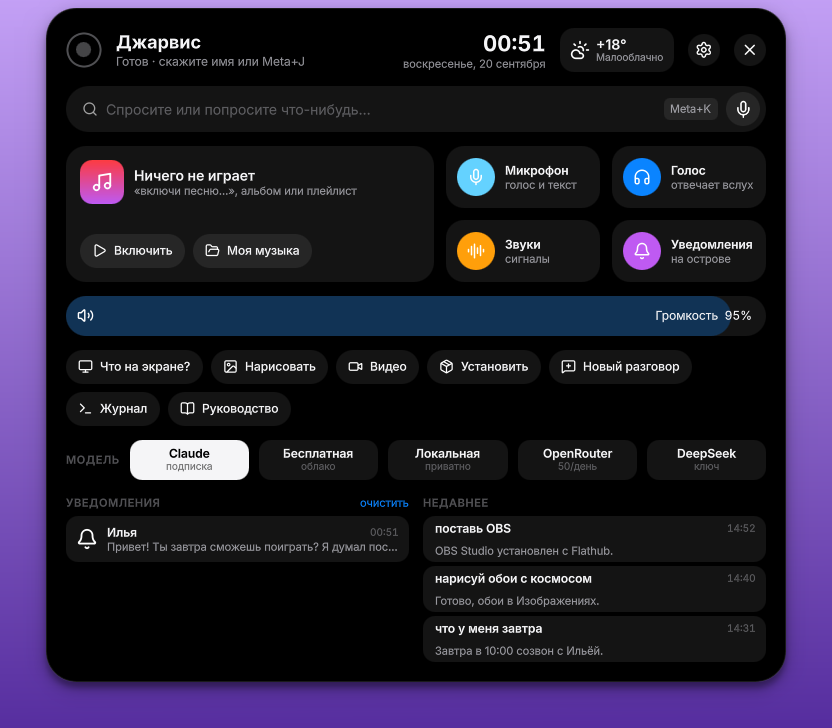
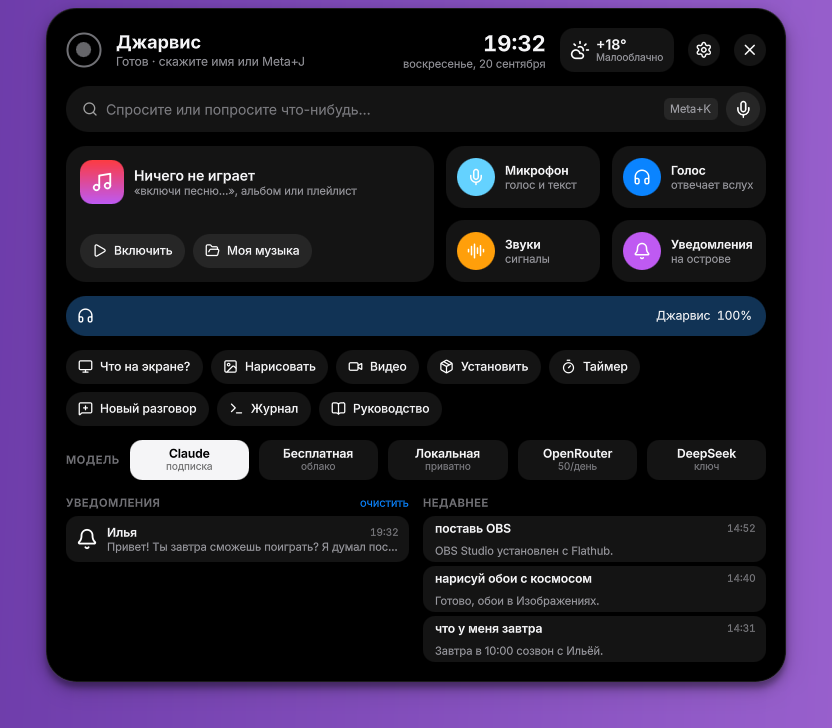
The volume in the menu is the assistant's own, and the player has one too
The slider in the island's menu moved the system volume: turning down JustDay turned down
every other app on the machine. It is now JustDay's own level — its voice and its signals,
set on our PipeWire stream (pw-play --volume), 0–100, kept in audio.volume. The system
volume stays where Plasma left it.

While music plays a second slider appears under it, in the colour of the cover, for the
player itself; the same knob now sits in the player, under the transport controls, with a
thinner track so it never reads as a second progress bar.

Both sliders apply at once and write the config a second after the dragging stops, so a
drag no longer means a file write per pixel. Also: `justday voice volume 70`, a row in
Settings → Голос и звук, and the two screenshots redone.

Claude-Session: https://claude.ai/code/session_01NE73Aw9EV23dkuFKRvQzTm

diff --git a/island/shell.qml b/island/shell.qml
@@ -11,7 +11,6 @@ import Quickshell.Io
 import Quickshell.Wayland
 import Quickshell.Widgets
 import Quickshell.Services.Mpris
-import Quickshell.Services.Pipewire
 import QtMultimedia
 
 ShellRoot {
@@ -784,12 +783,14 @@ ShellRoot {
         property real value: 0          // 0…1
         property color tint: JD.text1
         property real dragValue: -1
+        property bool live: false       // report every step (volume), not only the release (seeking)
+        property int thickness: 5       // the volume track is thinner: it is not the progress of anything
         signal seek(real frac)
         implicitHeight: 16
         Rectangle {
             anchors.verticalCenter: parent.verticalCenter
             width: parent.width
-            height: sbHover.hovered || sb.dragValue >= 0 ? 7 : 5
+            height: sbHover.hovered || sb.dragValue >= 0 ? sb.thickness + 2 : sb.thickness
             radius: height / 2
             color: Qt.rgba(1, 1, 1, 0.16)
             Behavior on height { NumberAnimation { duration: 120 } }
@@ -805,7 +806,7 @@ ShellRoot {
             anchors.fill: parent
             function at(x) { return Math.max(0, Math.min(1, x / width)) }
             onPressed: m => sb.dragValue = at(m.x)
-            onPositionChanged: m => { if (pressed) sb.dragValue = at(m.x) }
+            onPositionChanged: m => { if (pressed) { sb.dragValue = at(m.x); if (sb.live) sb.seek(sb.dragValue) } }
             onReleased: { sb.seek(sb.dragValue); sb.dragValue = -1 }
         }
     }
@@ -872,6 +873,7 @@ ShellRoot {
         readonly property color tint: JD.artTint(p.color)
         property real now: Date.now()
         property bool queueOpen: false
+        property int volumeWas: 0      // where the mute button came from
         Timer { interval: 250; repeat: true; running: pl.visible && !pl.p.paused; onTriggered: pl.now = Date.now() }
         readonly property real pos: { pl.now; return JD.playerPos(Date.now()) }
         readonly property var upcoming: (p.queue || []).filter(q => q.i >= (p.index || 0))
@@ -953,6 +955,34 @@ ShellRoot {
                     }
                 }
                 Item { Layout.fillWidth: true }
+            }
+            // how loud the music is — mpv's own volume, not the system's
+            RowLayout {
+                Layout.topMargin: 2
+                Layout.leftMargin: 4
+                Layout.rightMargin: 4
+                spacing: 10
+                Icon {
+                    name: (pl.p.volume || 0) === 0 ? "audio-volume-muted" : "audio-volume-high"
+                    implicitSize: 15; tint: JD.text3
+                    TapHandler { onTapped: { const was = pl.p.volume || 0
+                                             JD.media("volume", was > 0 ? 0 : (pl.volumeWas || 70))
+                                             pl.optimistic({ volume: was > 0 ? 0 : (pl.volumeWas || 70) }); pl.volumeWas = was } }
+                    HoverHandler { cursorShape: Qt.PointingHandCursor }
+                }
+                SeekBar {
+                    Layout.fillWidth: true
+                    live: true
+                    thickness: 3
+                    tint: Qt.rgba(pl.tint.r, pl.tint.g, pl.tint.b, 0.75)
+                    value: (pl.p.volume || 0) / 100
+                    onSeek: frac => { const v = Math.round(frac * 100); JD.media("volume", v); pl.optimistic({ volume: v }) }
+                }
+                Label2 {
+                    text: Math.round(pl.p.volume || 0) + "%"
+                    color: JD.text3; font.pixelSize: 11; font.features: { "tnum": 1 }
+                    Layout.minimumWidth: 34; horizontalAlignment: Text.AlignRight
+                }
             }
             // queue · folder · stop
             RowLayout {
@@ -1850,6 +1880,7 @@ ShellRoot {
         id: ps
         property real value: 0
         property bool muted: false
+        property color tint: JD.accentBlue
         property string icon: "audio-volume-high"
         property string label: ""
         property real dragValue: -1
@@ -1864,7 +1895,7 @@ ShellRoot {
             width: Math.max(parent.height, parent.width * Math.min(1, ps.shown))
             height: parent.height
             radius: parent.radius
-            color: Qt.rgba(JD.accentBlue.r, JD.accentBlue.g, JD.accentBlue.b, psHover.hovered || ps.dragValue >= 0 ? 0.40 : 0.28)
+            color: Qt.rgba(ps.tint.r, ps.tint.g, ps.tint.b, psHover.hovered || ps.dragValue >= 0 ? 0.40 : 0.28)
             Behavior on width { enabled: ps.dragValue < 0; NumberAnimation { duration: 140 } }
         }
         MouseArea {
@@ -1903,9 +1934,9 @@ ShellRoot {
     component ExpandedView: View {
         id: ev
         property string pendingProvider: ""
+        property int voiceWas: 0   // the level the mute button came from, for the way back
+        property int musicWas: 0
         readonly property var player: Mpris.players.values.length ? Mpris.players.values.find(p => p.isPlaying) || Mpris.players.values[0] : null
-        readonly property var sink: Pipewire.defaultAudioSink
-        PwObjectTracker { objects: ev.sink ? [ev.sink] : [] }
         implicitWidth: 740
         implicitHeight: Math.min(col.implicitHeight + 40, 800)
         SystemClock { id: evClock; precision: SystemClock.Minutes }
@@ -2126,15 +2157,30 @@ ShellRoot {
                 }
             }
 
-            // ── system volume (PipeWire)
+            // ── how loud the assistant is. Not the system volume: that one belongs to Plasma, and moving it
+            //    from here would also turn down every other app on the machine.
             PillSlider {
-                visible: !!ev.sink && !!ev.sink.audio
                 Layout.fillWidth: true
-                value: ev.sink && ev.sink.audio ? ev.sink.audio.volume : 0
-                muted: ev.sink && ev.sink.audio ? ev.sink.audio.muted : false
-                label: JD.tr("Громкость")
-                onMoved: v => { if (ev.sink && ev.sink.audio) { ev.sink.audio.volume = v; if (v > 0) ev.sink.audio.muted = false } }
-                onMuteToggled: if (ev.sink && ev.sink.audio) ev.sink.audio.muted = !ev.sink.audio.muted
+                value: JD.volume / 100
+                muted: JD.volume === 0
+                icon: "audio-speakers"
+                label: JD.assistantName
+                onMoved: v => JD.setVolume(v * 100)
+                onMuteToggled: { const was = JD.volume; JD.setVolume(was > 0 ? 0 : (ev.voiceWas || 100)); ev.voiceWas = was }
+            }
+
+            // ── the music, while there is music: the same knob as in the player
+            PillSlider {
+                visible: JD.musicOn
+                Layout.fillWidth: true
+                value: (JD.player && JD.player.volume !== undefined ? JD.player.volume : 70) / 100
+                muted: !!JD.player && JD.player.volume === 0
+                icon: "audio-x-generic"
+                tint: JD.artTint(JD.player ? JD.player.color : "")
+                label: JD.tr("Музыка")
+                onMoved: v => JD.media("volume", Math.round(v * 100))
+                onMuteToggled: { const was = JD.player ? JD.player.volume : 0
+                                 JD.media("volume", was > 0 ? 0 : (ev.musicWas || 70)); ev.musicWas = was }
             }
 
             // ── one-tap actions

diff --git a/island/JD.qml b/island/JD.qml
@@ -73,6 +73,13 @@ Singleton {
     readonly property var hotkeys: settings.hotkeys || ({})
     readonly property bool micOn: settings.microphone !== false
     readonly property bool voiceOn: settings.voice !== false
+    // JustDay's own loudness (voice and signals), 0–100. The system volume belongs to the system.
+    readonly property int volume: settings.volume === undefined ? 100 : settings.volume
+    function setVolume(v) {
+        v = Math.max(0, Math.min(100, Math.round(v)))
+        settings = Object.assign({}, settings, { volume: v })   // the slider follows the finger, not the socket
+        send({ cmd: "volume", value: v })
+    }
     function openCompose(text, context) {
         composeText = text || ""
         composeContext = context || ({})

diff --git a/island/SettingsView.qml b/island/SettingsView.qml
@@ -722,6 +722,11 @@ Item {
                     }
                 }
                 Row {
+                    title: JD.tr("Громкость голоса")
+                    subtitle: JD.tr("Насколько громко говорит сам ассистент; системную громкость это не трогает")
+                    SSlider { key: "audio.volume"; from: 0; to: 100; step: 5; decimals: 0; unit: "%" }
+                }
+                Row {
                     title: JD.tr("Скорость речи")
                     subtitle: JD.tr("Насколько быстро ассистент говорит; 1,0 — как модель произносит сама")
                     Segmented {

diff --git a/src/justday/daemon.py b/src/justday/daemon.py
@@ -174,6 +174,7 @@ def settings_snapshot(cfg: dict) -> dict:
             "wakeword": cfg["wakeword"]["enabled"], "mail": bool(m["address"]), "mail_announce": m["announce"],
             "accessibility": cfg["desktop"]["accessibility"], "island": cfg["island"],
             "microphone": cfg["audio"].get("microphone", True), "voice": cfg["tts"]["engine"] != "none",
+            "volume": int(cfg["audio"].get("volume", 100)),
             "tts_engine": cfg["tts"]["engine"], "tts_previous": cfg["tts"].get("previous_engine", ""),
             "hotkeys": _hotkeys(), "media": cfg["media"]}
 
@@ -254,7 +255,8 @@ class Daemon:
         self.cfg = config.load()
         a = self.cfg["audio"]
         self.mic = audio.Microphone(a["input"])
-        self.player = audio.Player(a["output"])
+        self.player = audio.Player(a["output"], int(a.get("volume", 100)))
+        self._saves: dict[tuple[str, str], asyncio.TimerHandle] = {}  # sliders: write the config once, not per pixel
         self.recorder = audio.UtteranceRecorder(self.mic, a["silence_seconds"], a["no_speech_timeout_seconds"],
                                                 a["max_utterance_seconds"])
         self.stt = STT(self.cfg["stt"])
@@ -746,6 +748,7 @@ class Daemon:
                 self.mic.start()
         if a["output"] != old["audio"]["output"]:
             self.player.sink = audio.find_node(a["output"], "sinks") if a["output"] else None
+        self.player.volume = int(a.get("volume", 100))
         if new["media"]["volume"] != old["media"]["volume"]:
             asyncio.create_task(self.music.set_volume(int(new["media"]["volume"])))
         self.brain.cfg["user"] = new["user"]
@@ -1414,6 +1417,22 @@ class Daemon:
         events.emit("media_video", title=e["title"], where=where)
         return {"ok": True, "title": e["title"], "where": where, "url": e["url"], "done": done + ": " + e["title"]}
 
+    def _save_later(self, section: str, key: str, value) -> None:
+        """A slider sends a value with every pixel: apply it at once, write the file when the dragging stops."""
+        pending = self._saves.pop((section, key), None)
+        if pending:
+            pending.cancel()
+        self._saves[(section, key)] = asyncio.get_running_loop().call_later(
+            1.0, lambda: config.set_value(section, key, value))
+
+    def set_volume(self, value: int) -> int:
+        """JustDay's own loudness (voice and signals), 0–100. The system volume is not ours to move."""
+        v = max(0, min(100, int(value)))
+        self.player.volume = v
+        self.cfg["audio"]["volume"] = v
+        self._save_later("audio", "volume", v)
+        return v
+
     async def media_control(self, action: str, value=None) -> dict:
         """pause | resume | toggle | next | prev | restart | stop | seek SECONDS | volume 0-130 | status"""
         m = self.music
@@ -1437,7 +1456,7 @@ class Daemon:
         elif action == "volume":
             v = int(value if value is not None else m.volume)
             await m.set_volume(v)
-            config.set_value("media", "volume", v)
+            self._save_later("media", "volume", v)
             self.cfg["media"]["volume"] = v
         elif action == "restart":
             await m.seek(0)
@@ -1608,6 +1627,9 @@ class Daemon:
                                              bool(req.get("playlist")), bool(req.get("shuffle")))
             elif cmd == "media_video":  # justday video: asks where (island / window / YouTube) unless told
                 resp = await self.play_video(req.get("query", ""), req.get("where", ""))
+            elif cmd == "volume":  # the island's slider: how loud JustDay itself is
+                resp = {"ok": True, "volume": self.set_volume(int(req.get("value", 100)))}
+                self.publish(settings=settings_snapshot(self.cfg))
             elif cmd == "media":  # player buttons and `justday player ACTION`
                 resp = await self.media_control(req.get("action", "status"), req.get("value"))
             elif cmd == "reminder_set":  # `justday timer 10m` and the island's own buttons

diff --git a/src/justday/audio.py b/src/justday/audio.py
@@ -153,17 +153,25 @@ class UtteranceRecorder:
 
 
 class Player:
-    """Plays int16 mono PCM through pw-play; stop() cuts playback immediately."""
+    """Plays int16 mono PCM through pw-play; stop() cuts playback immediately.
 
-    def __init__(self, sink_substring: str = ""):
+    `volume` is JustDay's own level (0–100): it sets the volume of our stream, so the assistant can be
+    made quieter without touching the system volume — and without touching what other apps play."""
+
+    def __init__(self, sink_substring: str = "", volume: int = 100):
         self.sink = find_node(sink_substring, "sinks") if sink_substring else None
+        self.volume = volume
         self._proc: asyncio.subprocess.Process | None = None
 
-    async def play(self, pcm: np.ndarray, rate: int) -> None:
-        cmd = ["pw-play", "--rate", str(rate), "--channels", "1", "--format", "s16", "--raw"]
+    def _cmd(self, rate: int) -> list[str]:
+        cmd = ["pw-play", "--rate", str(rate), "--channels", "1", "--format", "s16", "--raw",
+               "--volume", f"{max(0, min(100, int(self.volume))) / 100:.3f}"]
         if self.sink:
             cmd += ["--target", self.sink]
-        cmd.append("-")
+        return cmd + ["-"]
+
+    async def play(self, pcm: np.ndarray, rate: int) -> None:
+        cmd = self._cmd(rate)
         self._proc = await asyncio.create_subprocess_exec(
             *cmd, stdin=asyncio.subprocess.PIPE, stderr=asyncio.subprocess.DEVNULL
         )
@@ -179,10 +187,7 @@ class Player:
 
     async def play_stream(self, chunks, rate: int) -> None:
         """Play PCM chunks as they are generated (neural voice: speech starts before synthesis ends)."""
-        cmd = ["pw-play", "--rate", str(rate), "--channels", "1", "--format", "s16", "--raw"]
-        if self.sink:
-            cmd += ["--target", self.sink]
-        cmd.append("-")
+        cmd = self._cmd(rate)
         self._proc = proc = await asyncio.create_subprocess_exec(
             *cmd, stdin=asyncio.subprocess.PIPE, stderr=asyncio.subprocess.DEVNULL
         )

diff --git a/src/justday/cli.py b/src/justday/cli.py
@@ -350,8 +350,9 @@ def main(argv: list[str] | None = None) -> None:
     sp.add_argument("--address", help="setup without prompts: address here, app password on stdin")
     sp = sub.add_parser("settings-data", help="JSON snapshot for the Settings window")
     sp = sub.add_parser("voice", help="voices: list | design NAME DESCRIPTION | record SECONDS | clone NAME WAV TEXT | "
-                                      "delete ID | preview TEXT | speed 1.2 | eleven [VOICE_ID] | key (reads stdin)")
-    sp.add_argument("action", choices=["list", "design", "record", "clone", "delete", "preview", "speed", "eleven", "key"])
+                                      "delete ID | preview TEXT | speed 1.2 | volume 80 | eleven [VOICE_ID] | key (reads stdin)")
+    sp.add_argument("action", choices=["list", "design", "record", "clone", "delete", "preview", "speed", "volume",
+                                       "eleven", "key"])
     sp.add_argument("args", nargs="*")
     sp = sub.add_parser("timer", help="set a timer: `justday timer 10m чай` · `justday timer` lists what is set")
     sp.add_argument("args", nargs="*")
@@ -505,6 +506,11 @@ def main(argv: list[str] | None = None) -> None:
                 config.set_value("tts", "speed", max(0.5, min(2.0, float(args[0]))))
                 control("reload_settings", timeout=10)
             _print({"speed": config.load()["tts"]["speed"]})
+        elif a.action == "volume":  # how loud the assistant is, 0–100 (the system volume stays where it is)
+            if args:
+                _print(control("volume", timeout=10, value=max(0, min(100, int(float(args[0]))))))
+            else:
+                _print({"volume": config.load()["audio"].get("volume", 100)})
         elif a.action == "key":  # the ElevenLabs key, read from stdin so it never lands in the shell history
             key = sys.stdin.read().strip()
             config.set_secret("ELEVENLABS_API_KEY", key)

diff --git a/src/justday/config.py b/src/justday/config.py
@@ -78,6 +78,9 @@ DEFAULTS: dict = {
         "microphone": True,  # false = keyboard only: no mic, no wake word, speech recognition never loads
         "input": "",
         "output": "",
+        # How loud JustDay itself is — its voice and its signals, 0–100% of the system volume.
+        # The system volume stays where the user left it; this is the assistant's own knob.
+        "volume": 100,
         "earcons": True,
         "max_utterance_seconds": 40,
         "silence_seconds": 1.0,

diff --git a/CAPABILITIES.md b/CAPABILITIES.md
@@ -55,7 +55,7 @@
 - ✅ Загрузка видео для острова (≤720p, h264 + aac) — проверено
 - ✅ Альбомы и плейлисты с YouTube, перемешивание (текущая песня остаётся первой, «по порядку» возвращает порядок), повтор песни и всей очереди, переход к песне из очереди — проверено на mpv
 - ✅ Уведомления на острове: раскрыть целиком, закрыть, открыть приложение — проверено в тестовой сессии; какой именно чат откроется, зависит от приложения
-- ✅ Новое меню: плеер, переключатели, громкость системы (PipeWire), быстрые действия, уведомления и недавнее — проверено в тестовой сессии
+- ✅ Новое меню: плеер, переключатели, громкость ассистента и музыки (системная остаётся за Plasma), быстрые действия, уведомления и недавнее — проверено в тестовой сессии
 - 🟡 Голосовой ответ «в окне» / «на ютубе» на вопрос о видео и видео в окне mpv — собраны, живым прогоном ещё не проверены
 - 🟡 Медиаклавиши клавиатуры и виджет KDE наш плеер пока не видят: у mpv нет MPRIS без плагина mpv-mpris
 
